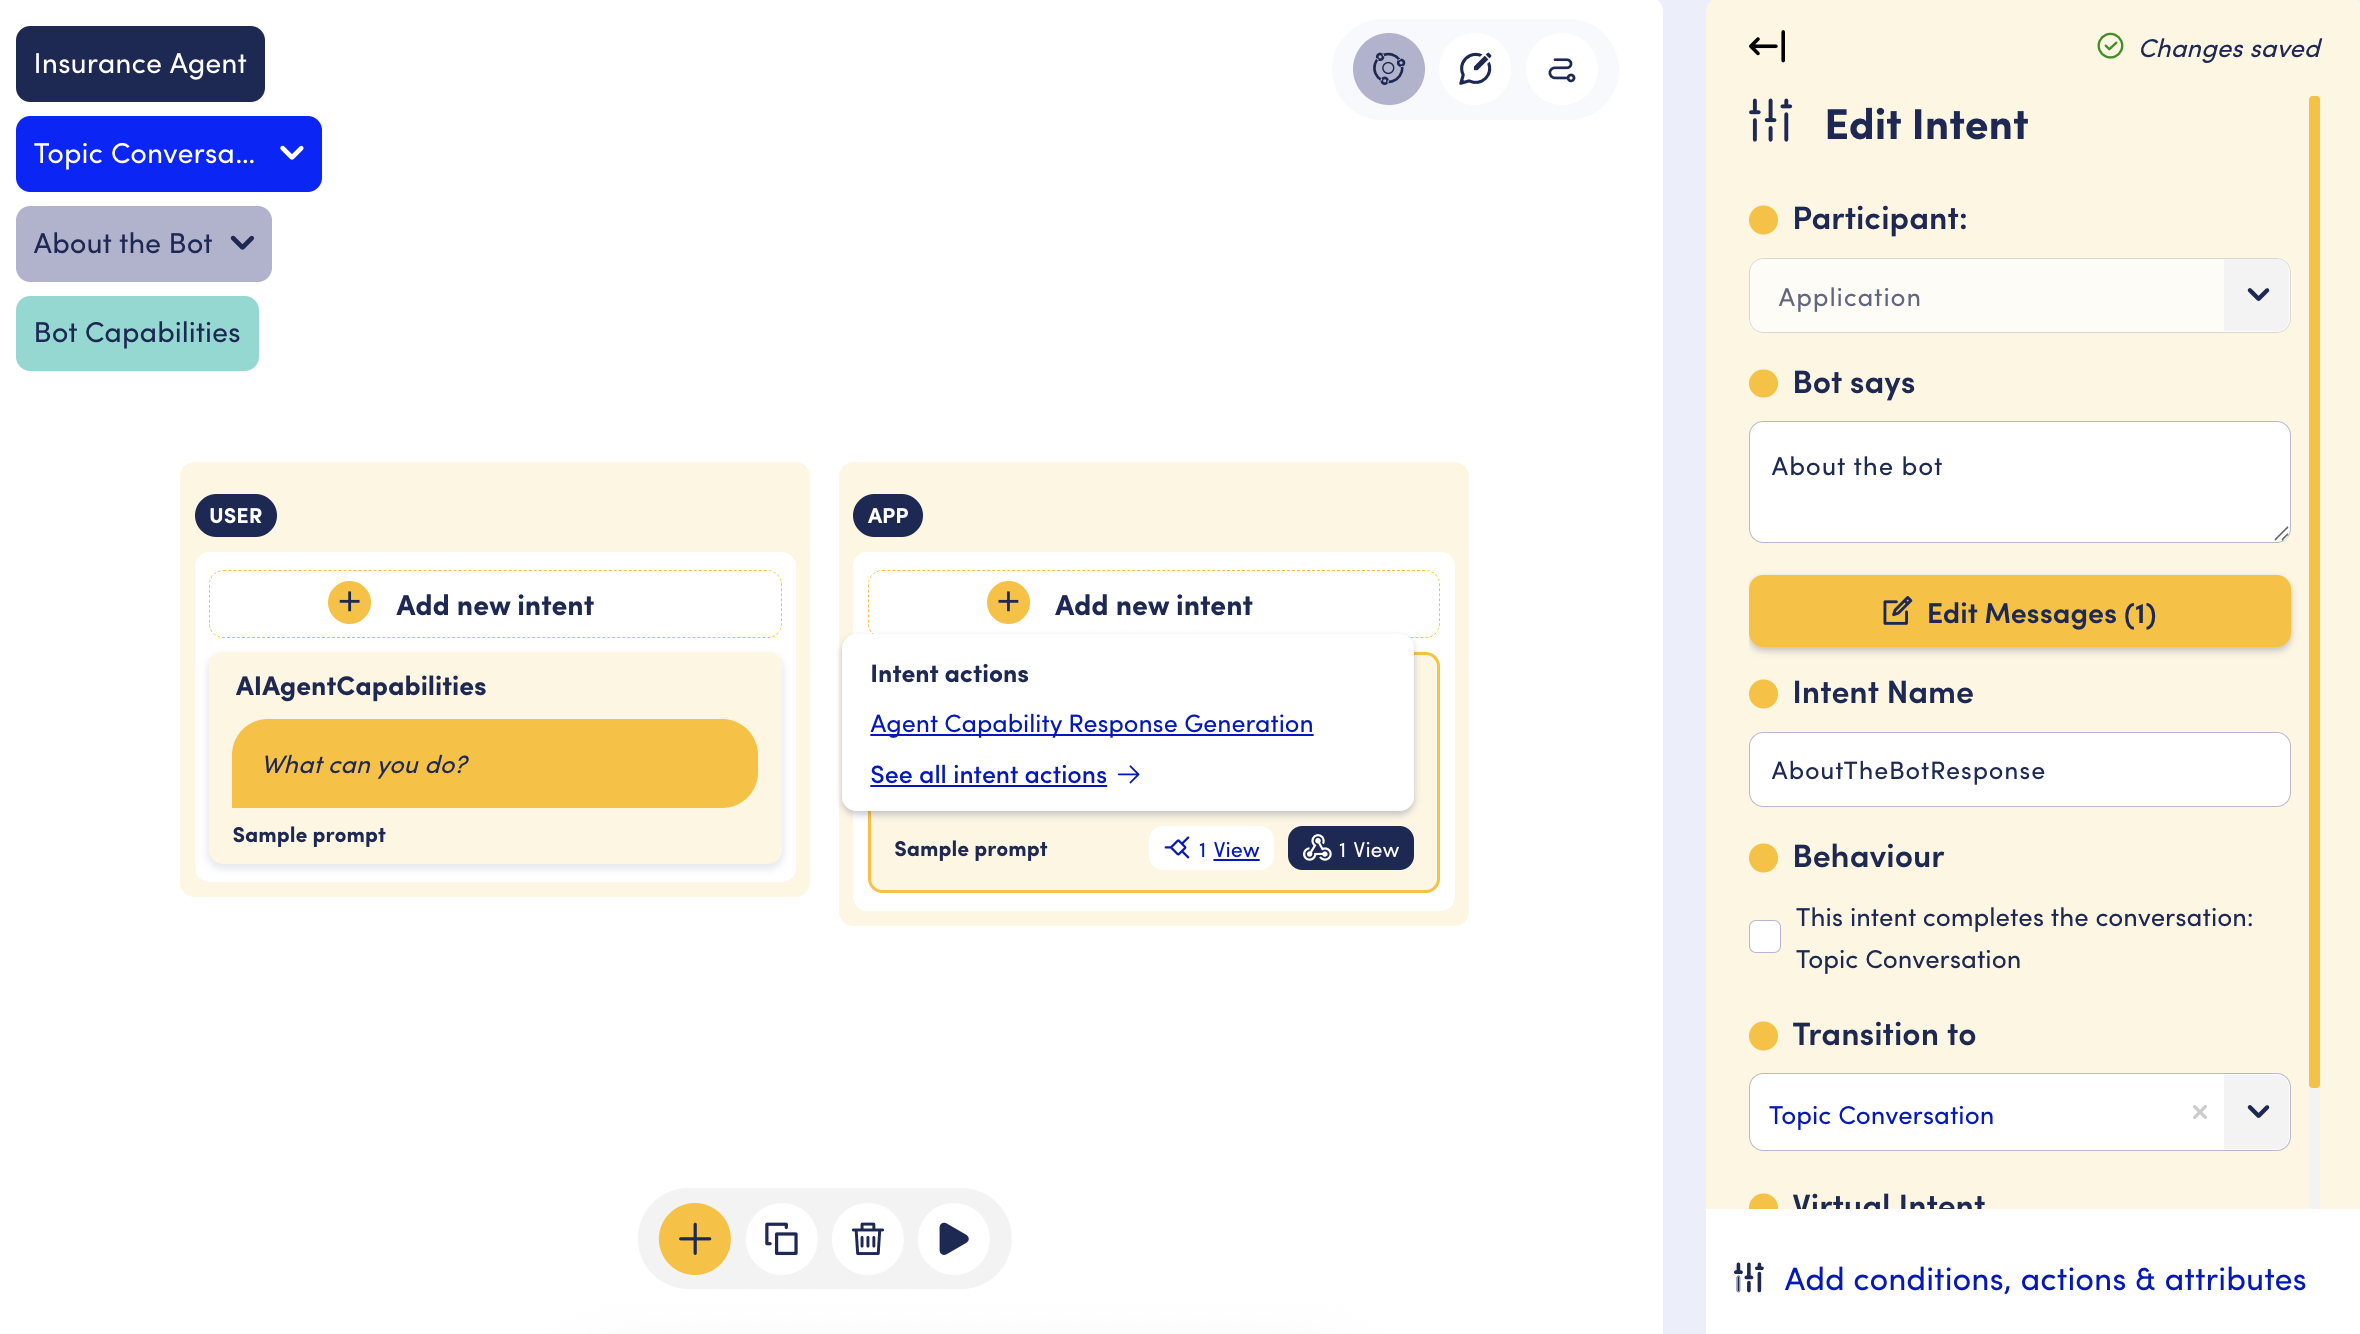
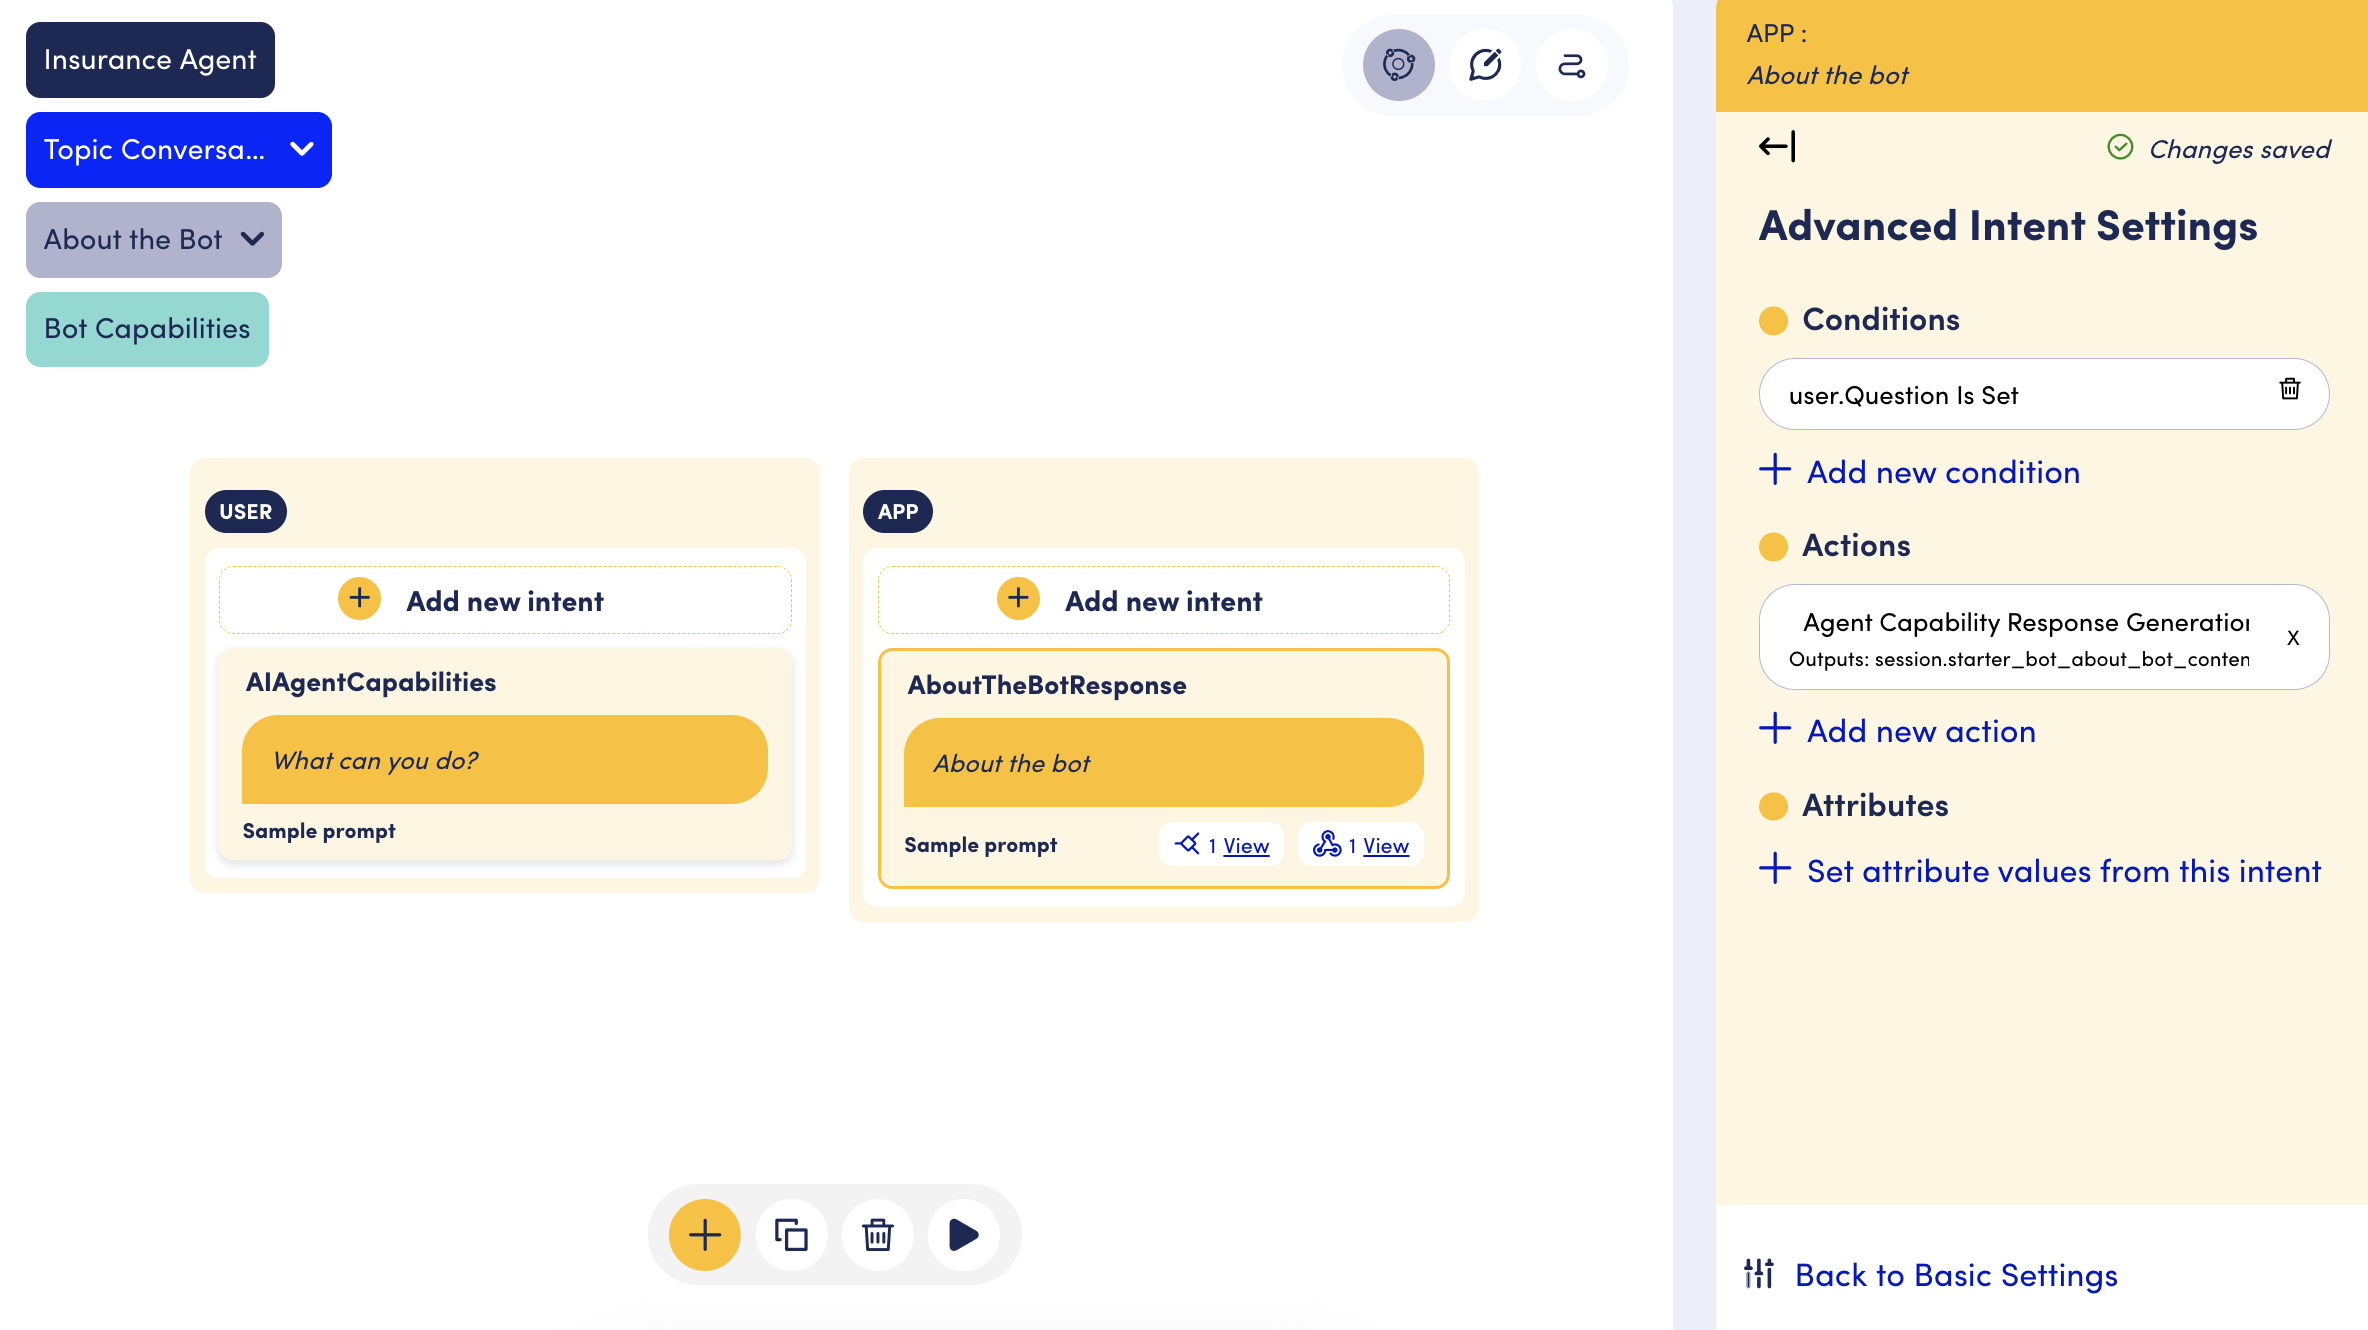
GITBOOK-470: No subject

diff --git a/core-concepts/the-opendialog-workspace/opendialog-account-management/create-and-manage-users.md b/core-concepts/the-opendialog-workspace/opendialog-account-management/create-and-manage-users.md
@@ -1,30 +1,26 @@
 # Creating and managing users
 
-On setup, there will be at least one user in the workspace. Any users may add additional users.&#x20;
+On setup, there will be at least one user in the workspace. Any user may add additional users to the workspace.&#x20;
 
 ### Adding a new user
 
-To enable the members of your team to access the instance, you will have to add them as users on your OpenDialog account.&#x20;
+To enable a members of your team to access the workspace, you will have to add them as users within your OpenDialog account.&#x20;
 
-Note that users are added to the workspace, not to a specific scenario.&#x20;
+**Note:** users are added to the workspace, not to a specific scenario. So they are able to see ALL scenarios associated with a workspace.
 
-To do this you need to use a "hidden" page by adding "/users" to the URL after "/admin". E.g. `<instance-name>.cloud.opendialog.ai/admin/users.`Next click on the 'Create' button, fill out their details and click 'Create'.&#x20;
+To do this, you need to click on the three dots next to your name, then on 'User Management'. Next, click on the 'Create' button, fill out their details and click 'Create'.&#x20;
 
-![Add new user screen](<../../../.gitbook/assets/image (425).png>)
+<figure><img src="../../../.gitbook/assets/image (576).png" alt=""><figcaption></figcaption></figure>
 
-Once you've set up the new user account you need to notify the user directly and inform them, since NO email is automatically sent out.&#x20;
+Once you've set up the new user account, you need to notify the user directly and inform them, since NO email is automatically sent out.&#x20;
 
 Instruct the user to
 
 * Go to your instance URL e.g. `<instance-name>.cloud.opendialog.ai`&#x20;
 * Click on the 'I forgot my password' link to set up their password and log in
 
-
-
-<figure><img src="broken-reference" alt=""><figcaption><p>Enter your email address to follow the forgotten password journey</p></figcaption></figure>
-
 ### Deleting a user
 
-To remove a user from your instance visit `<instance-name>.cloud.opendialog.ai/admin/users`, click on 'X' next to the user you want to remove, then 'yes' on the pop-up and the user will be removed.
+To remove a user from your instance, click on the three dots next to your name, then on 'User Management'. Then click on 'X' next to the user you want to remove, then 'yes' on the pop-up, and the user will be removed.
 
 ![User profile - Delete/Edit buttons](<../../../.gitbook/assets/image (149).png>)

diff --git a/release-notes/release-notes.md b/release-notes/release-notes.md
@@ -50,7 +50,7 @@ We made our scenario visualizer in preview and analyse a bit more convenient and
 
 To enhance clarity regarding conditions and actions tied to specific intent within Conversation Designer, we are rolling out an update that will visibly mark intent cards when they contain associated action or condition. Additionally, we've incorporated straightforward edit links directly on the interface of each intent card for immediate access to thisi elements:
 
-<figure><img src="../.gitbook/assets/image.png" alt=""><figcaption></figcaption></figure>
+<figure><img src="../.gitbook/assets/image (1).png" alt=""><figcaption></figcaption></figure>
 
 <figure><img src="../.gitbook/assets/image (2).png" alt=""><figcaption></figcaption></figure>
 
